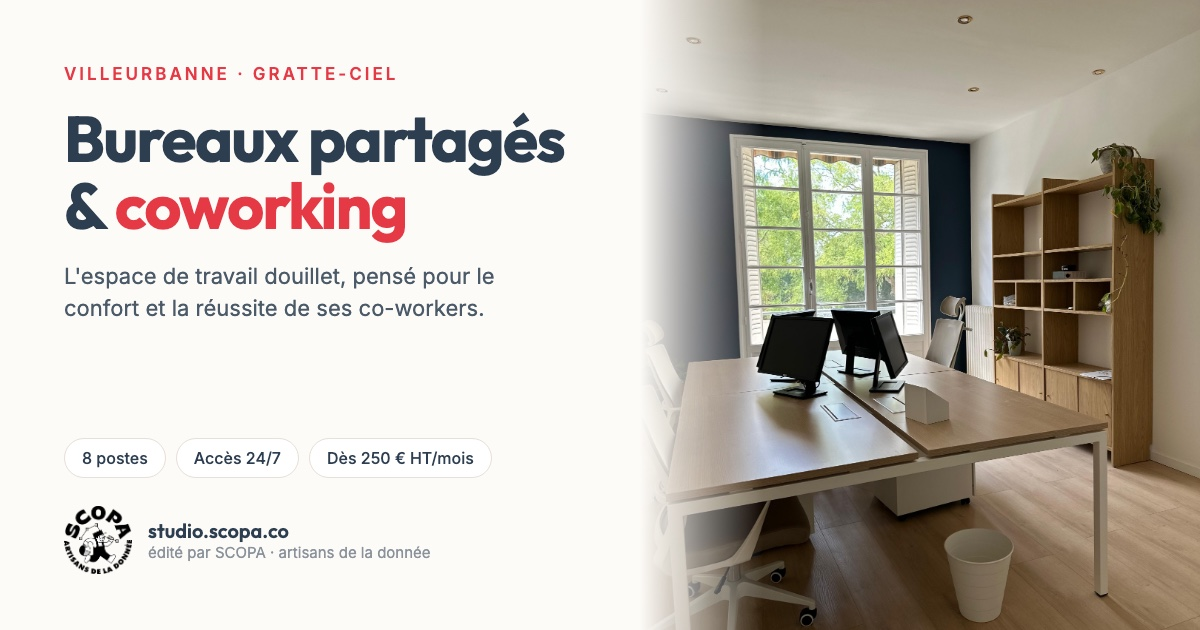
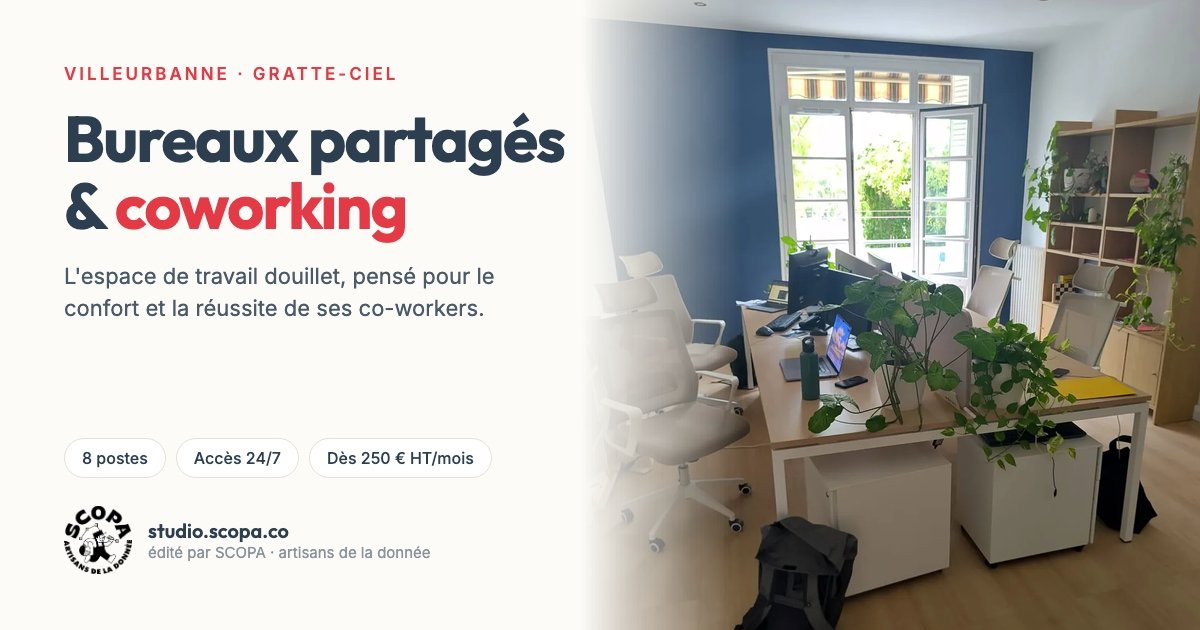
Feat/nouvelles photos (#13)
* feat(photos): remplace les photos du site par les clichés de septembre 2026

Nouvelles photos de l'open space, du balcon, de la cuisine, du coin café
et de la déco pour l'accueil et la section concept ; nouvelle photo de la
salle de réunion. Les anciens fichiers, plus référencés, sont supprimés.

* feat(photos): met l'open space en avant sur le concept et la miniature de partage

L'open space devient la grande image de la section concept, le balcon
rejoint les miniatures (quatre au lieu de trois). La miniature Open Graph
og.jpg reprend la nouvelle photo, avec le même bloc texte qu'avant.

diff --git a/src/data.js b/src/data.js
@@ -5,14 +5,14 @@ export const content = {
         subtitle: "Au cœur de Villeurbanne",
         description: "Situé dans le quartier dynamique de Gratte-Ciel, Scopa Studio est l’espace de travail douillet pensé pour le confort et la réussite de ses co-workers.",
         cta: "Voir les disponibilités",
-        image: "open-space-entier1.webp"
+        image: "open-space-2026.webp"
     },
     concept: {
         title: "Le coworking coopératif à Villeurbanne",
         description: "Seul ou en équipe, dans l’espace partagé ou en bureau privé, en passant par la cuisine et la salle de réunion, vous trouverez tout ce dont vous avez besoin pour travailler efficacement dans une ambiance conviviale.",
         highlight: "Au total, ce sont **8 postes de travail coworking** qui sont disponibles.",
-        images: ["bureau-privatif2.webp", "open-space-gauche3.webp", "open-space-gauche2.webp"],
-        mainImage: "open-space-gauche1.webp"
+        images: ["balcon.webp", "cuisine.webp", "cafe.webp", "plante-deco.webp"],
+        mainImage: "open-space-2026.webp"
     },
     reviews: {
         title: "Ce qu'en disent nos coworkers",
@@ -73,7 +73,7 @@ export const content = {
             { icon: "🤫", label: "Salle fermée et au calme" }
         ],
         cta: "Réserver la salle",
-        mainImage: "salle-reunion1.webp"
+        mainImage: "salle-reunion2.webp"
     },
     pricing: {
         title: "Nos tarifs coworking",

diff --git a/index.html b/index.html
@@ -44,7 +44,7 @@
       "@context": "https://schema.org",
       "@type": "CoworkingSpace",
       "name": "Scopa Studio",
-      "image": "https://studio.scopa.co/images/open-space-entier1.webp",
+      "image": "https://studio.scopa.co/images/open-space-2026.webp",
       "@id": "https://studio.scopa.co/",
       "url": "https://studio.scopa.co/",
       "sameAs": [
